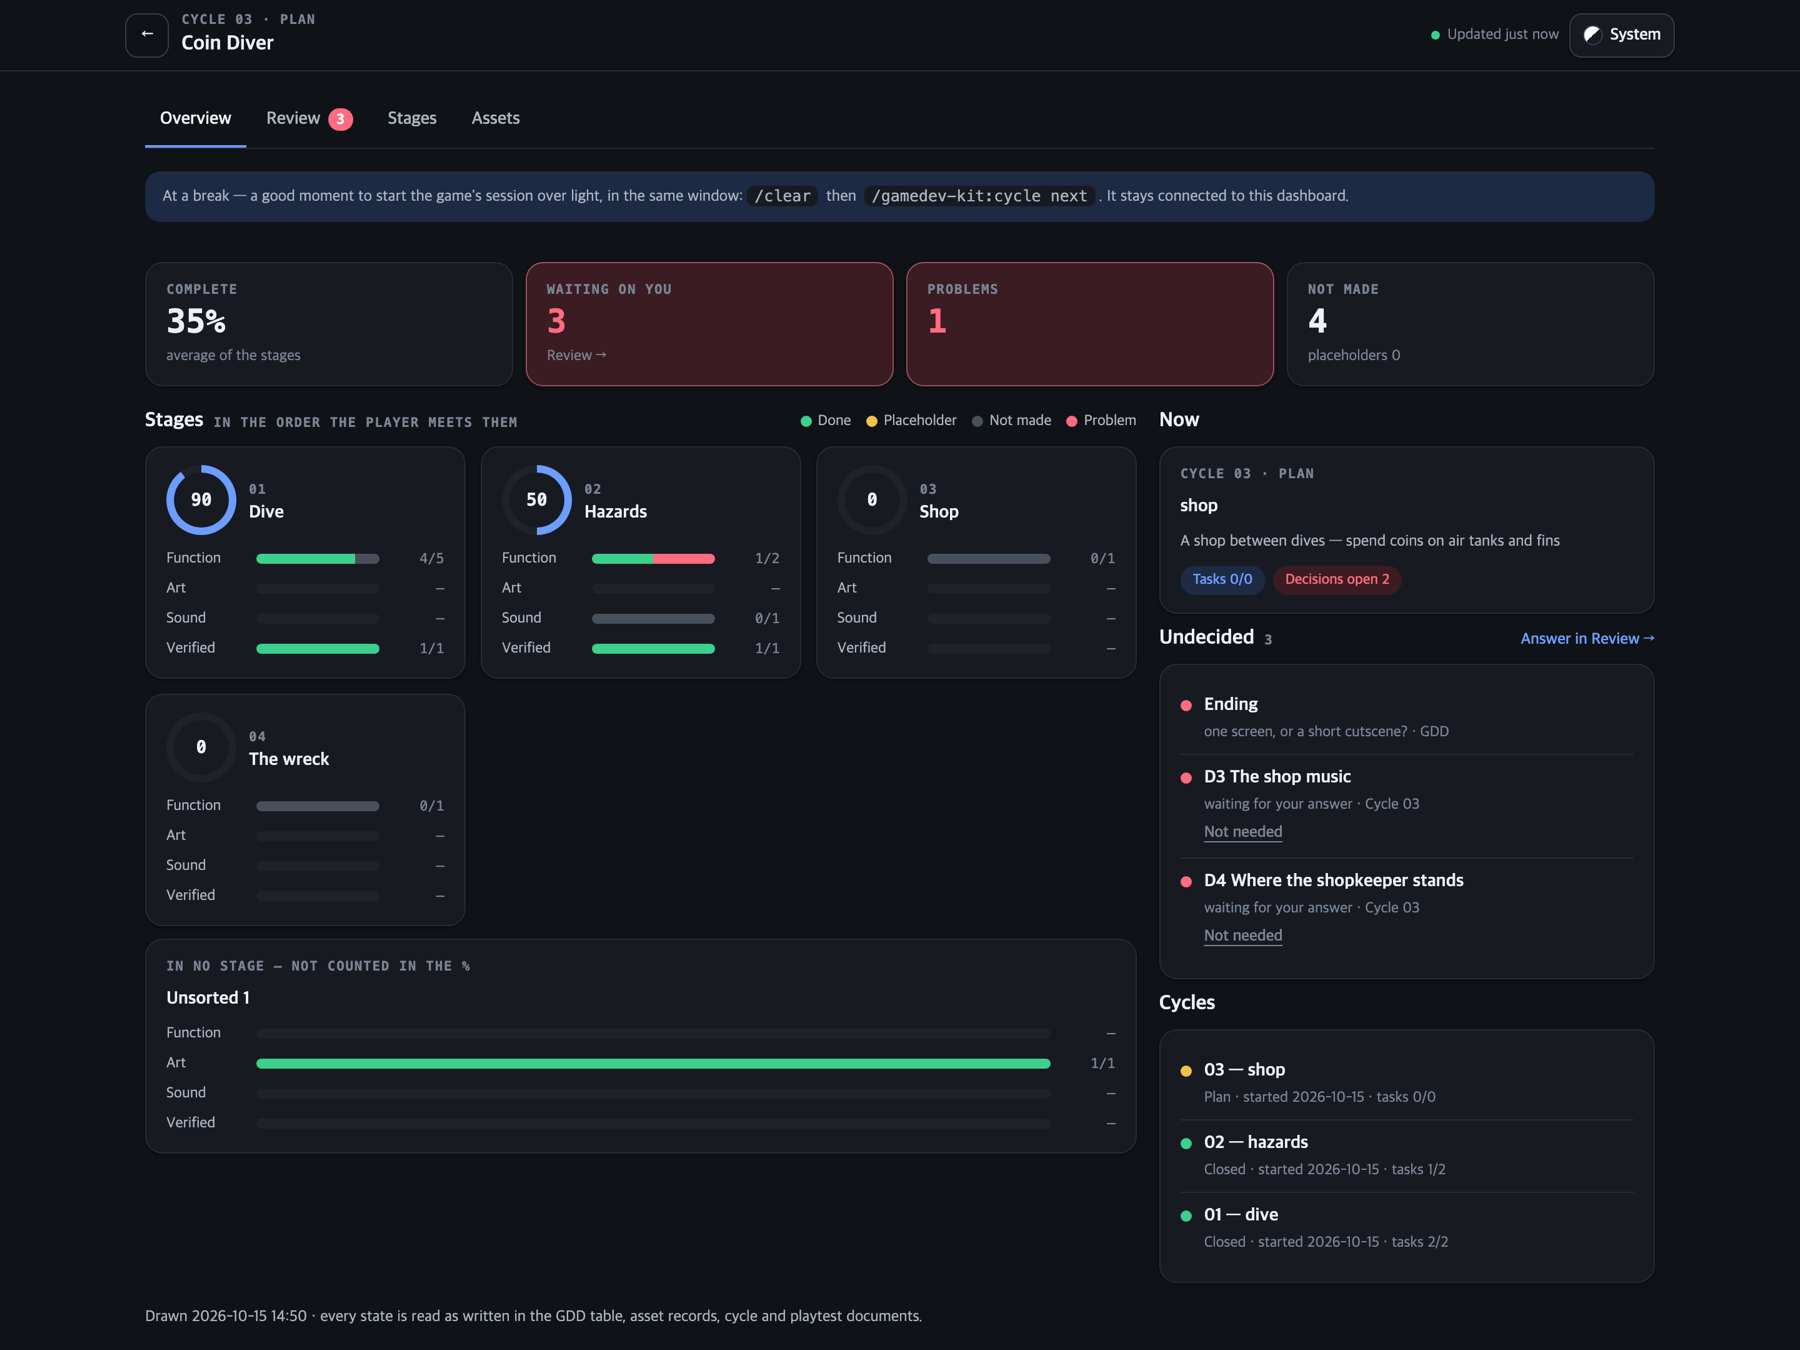
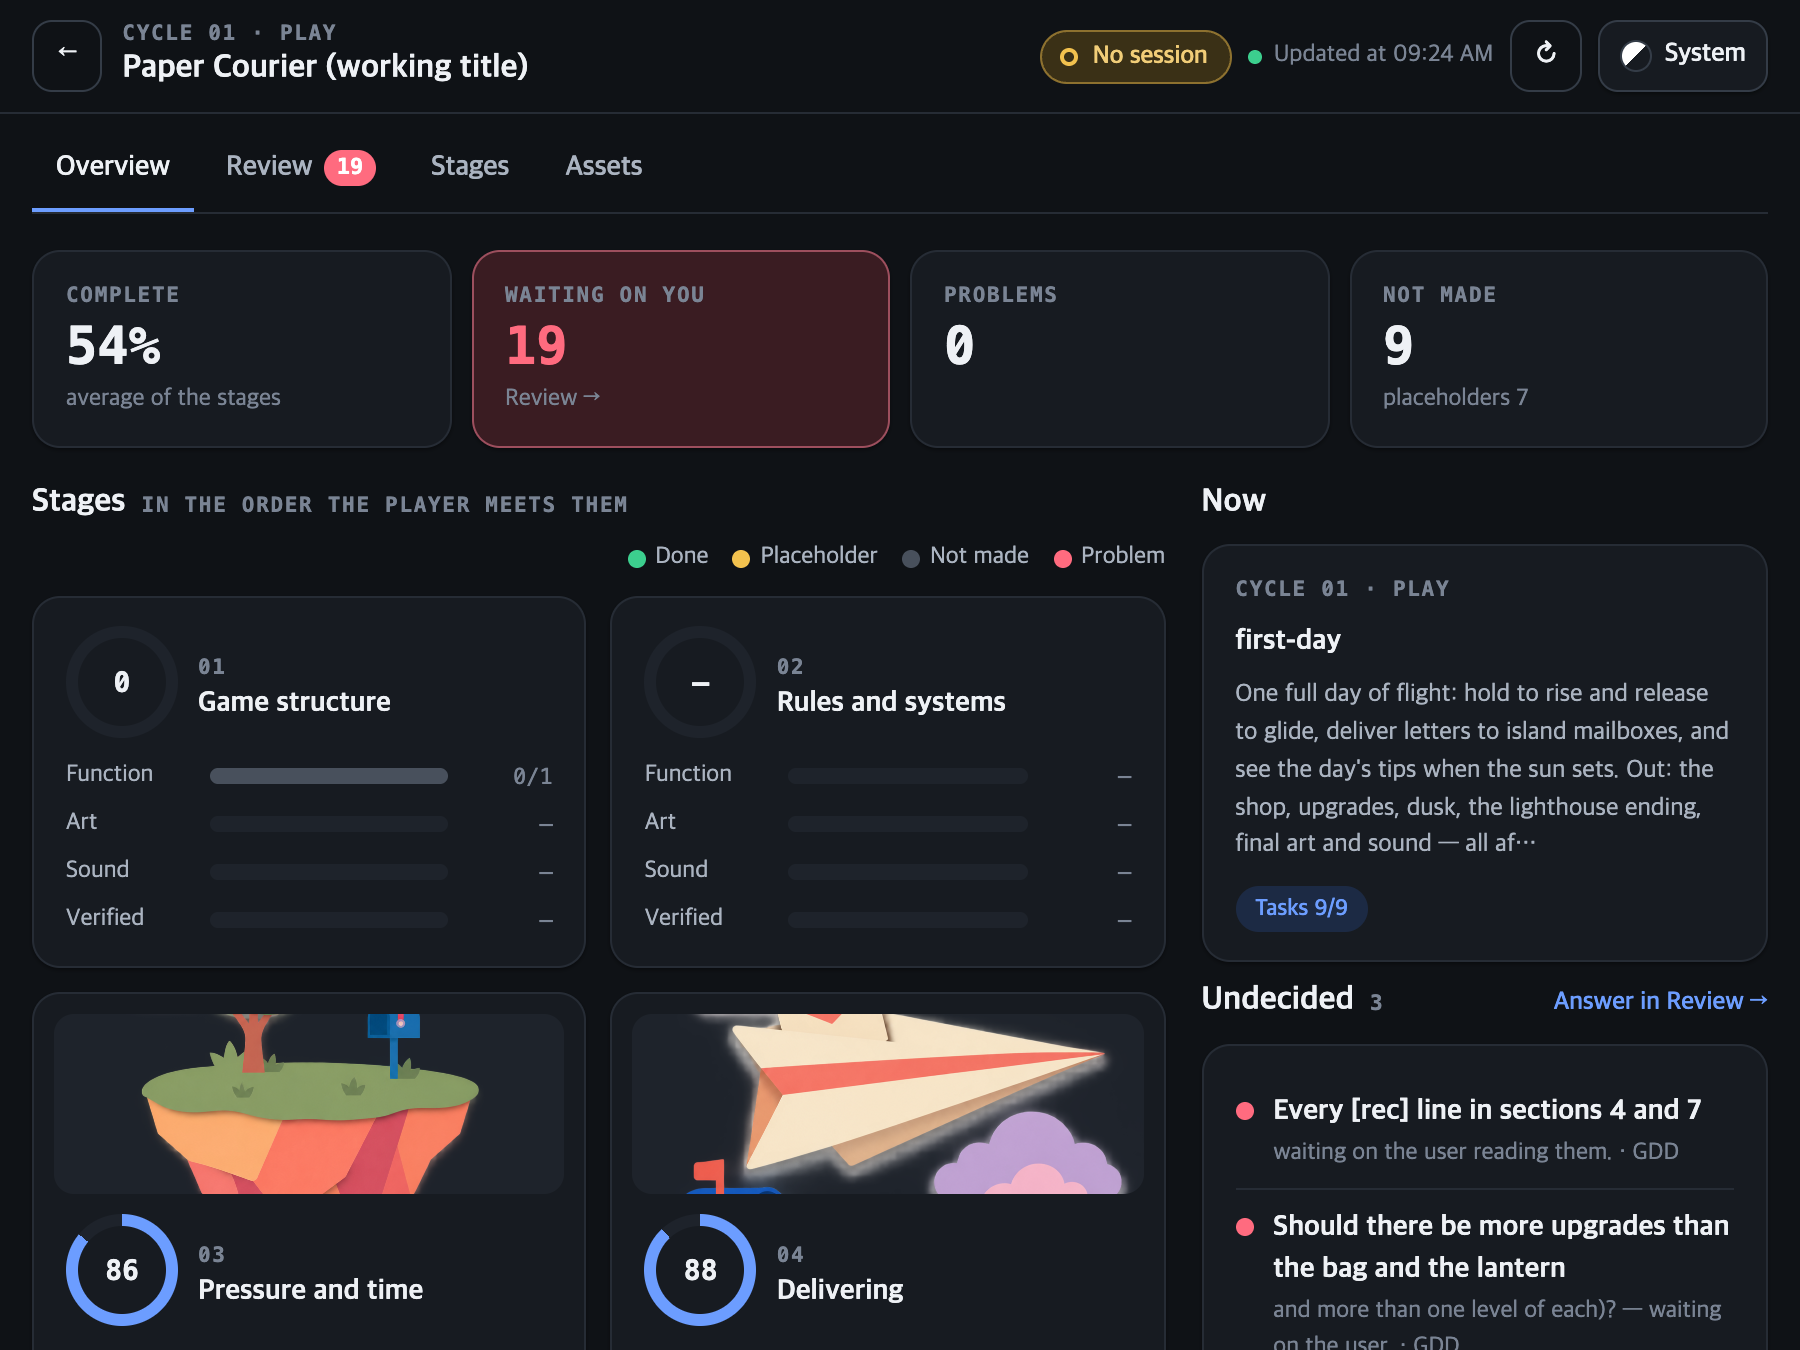
README: the dashboard as three screens — the stages, one stage opened, the assets

diff --git a/README.md b/README.md
@@ -44,7 +44,8 @@ Making a game with AI is easy. The trouble starts when making it takes weeks: yo
 
 ### See where every game stands — and decide there
 
-<p align="center"><picture><source media="(prefers-color-scheme: dark)" srcset="assets/dashboard-dark.png"><img src="assets/dashboard-light.png" alt="The dashboard of a sample game: stage cards in play order with completion rings and meters for function, art, sound and verification; beside them the current cycle, the undecided questions and the cycles so far" width="860"></picture></p>
+<p align="center"><picture><source media="(prefers-color-scheme: dark)" srcset="assets/dashboard-dark.png"><img src="assets/dashboard-light.png" alt="The dashboard of a sample game: stage cards in play order, each with a completion ring, its first picture and meters for function, art, sound and verification; beside them the current cycle and the undecided questions" width="860"></picture></p>
+<p align="center"><picture><source media="(prefers-color-scheme: dark)" srcset="assets/dashboard-stage-dark.png"><img src="assets/dashboard-stage-light.png" alt="One stage opened: the GDD rows it is built from, its three pictures and a sound you can play" width="424" align="top"></picture> <picture><source media="(prefers-color-scheme: dark)" srcset="assets/dashboard-assets-dark.png"><img src="assets/dashboard-assets-light.png" alt="The assets tab: every picture and sound of the game side by side" width="424" align="top"></picture></p>
 
 A dashboard on your machine shows each game as the player meets it, stage by stage — what is done, a placeholder, not made, or a problem. Every question the agents have for you is a decision there, with the pictures (or a clip of play, or the sounds to choose between) to judge it by. Pick an answer and the game's Claude session picks it up; the top bar always says whether that session is listening.
 
